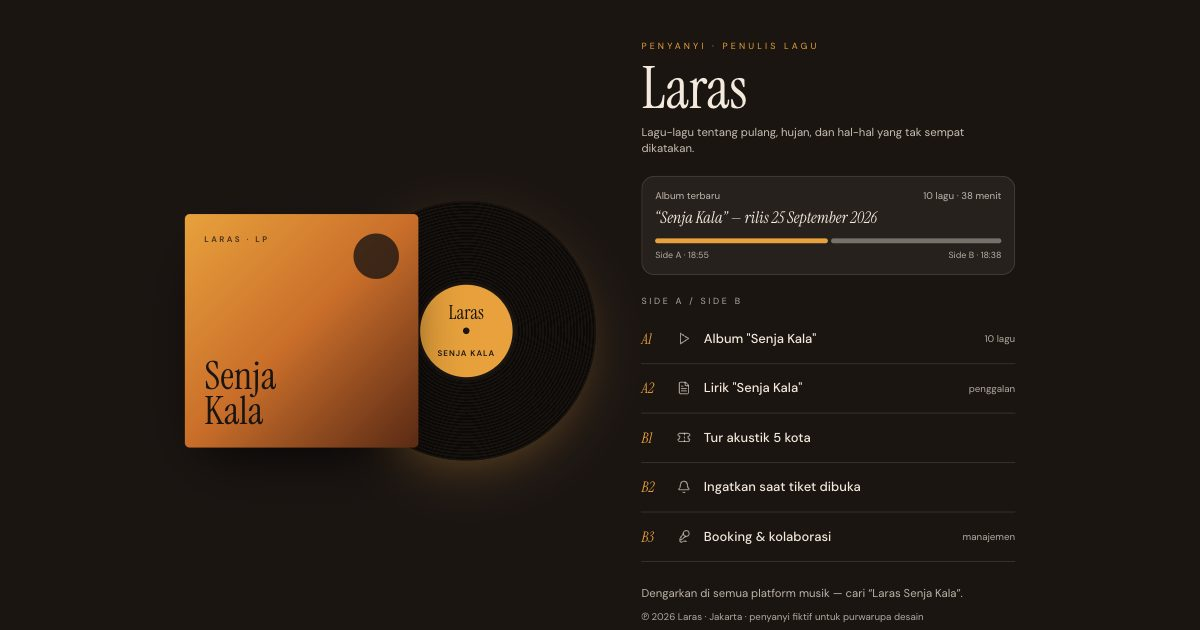
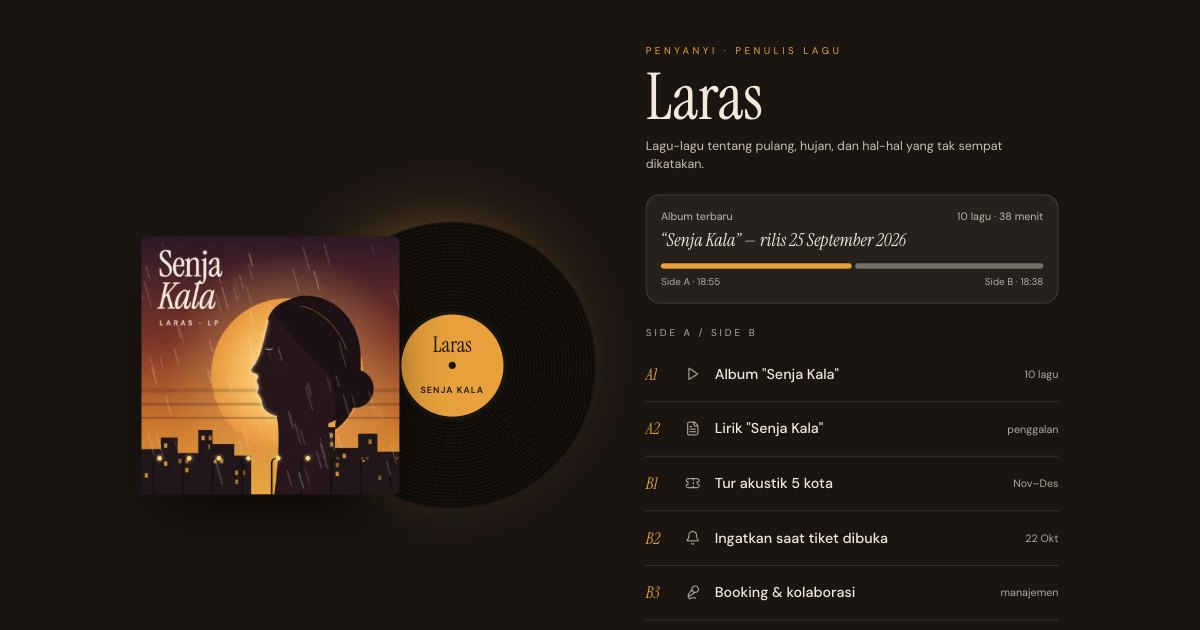
Tambah sampul album Senja Kala bergambar siluet Laras
- Sampul gradien diganti ilustrasi asli: siluet profil Laras di depan
  matahari senja, gerimis, dan lampu kota yang menyala satu-satu
- Beranda kini menampilkan sampul + piringan yang menyembul juga di ponsel;
  /album memakai sampul yang sama dengan alt deskriptif
- Gambar statis lewat scripts/static-images.mjs dengan <img srcset>; sumber
  di public/images/SUMBER.md; og.jpg diperbarui

diff --git a/app/page.js b/app/page.js
@@ -1,4 +1,5 @@
 import Link from 'next/link';
+import Gambar from './components/Gambar';
 import { Bell, FileText, Mic2, Play, Ticket } from 'lucide-react';
 import { ALBUM, LINKS, durasiSisi } from '@/lib/laras';
 import { hariIniWIB } from '@/lib/waktu';
@@ -13,14 +14,10 @@ export default function Home() {
   return (
     <main className="flex min-h-screen items-center justify-center px-4 py-12 lg:px-8">
       <div className="w-full max-w-md lg:grid lg:max-w-5xl lg:grid-cols-[minmax(0,1.1fr)_minmax(0,1fr)] lg:items-center lg:gap-14">
-        {/* Piringan — di layar lebar keluar dari sampul album. Persona fiktif, tanpa foto. */}
-        <div className="rise relative mx-auto h-52 w-52 lg:h-[22rem] lg:w-full lg:max-w-[32rem]" aria-hidden="true">
-          <div className="absolute inset-y-8 left-0 z-10 hidden aspect-square rounded-md bg-gradient-to-br from-amberv via-[#c96e2a] to-[#5a2a14] p-6 shadow-[0_30px_70px_-25px_rgba(0,0,0,0.9)] lg:block">
-            <span className="absolute bottom-6 left-6 font-serif text-5xl leading-[0.9] text-studio">Senja<br />Kala</span>
-            <span className="absolute right-6 top-6 h-14 w-14 rounded-full bg-studio/80" />
-            <span className="absolute left-6 top-6 text-[10px] font-semibold uppercase tracking-[0.3em] text-studio/80">Laras · LP</span>
-          </div>
-          <div className="absolute inset-0 lg:inset-y-4 lg:left-auto lg:right-0 lg:aspect-square">
+        {/* Sampul album + piringan yang menyembul dari sampulnya. Ilustrasi asli, persona fiktif. */}
+        <div className="rise relative mx-auto h-52 w-full max-w-[20rem] lg:h-[22rem] lg:max-w-[32rem]" aria-hidden="true">
+          <Gambar src="/images/sampul-senja-kala.webp" alt="" width={352} height={352} asli={800} sizes="(min-width: 1024px) 288px, 176px" priority className="absolute inset-y-4 left-0 z-10 aspect-square h-[calc(100%-2rem)] w-auto rounded-md shadow-[0_30px_70px_-25px_rgba(0,0,0,0.9)] lg:inset-y-8 lg:h-[calc(100%-4rem)]" />
+          <div className="absolute inset-y-0 right-0 aspect-square lg:inset-y-4">
             <div className="record absolute inset-0 rounded-full shadow-[0_20px_60px_-15px_rgba(232,161,60,0.35)]" />
             <div className="absolute left-1/2 top-1/2 grid h-[38%] w-[38%] -translate-x-1/2 -translate-y-1/2 place-items-center rounded-full border-4 border-studio bg-amberv text-center text-studio">
               <span className="font-serif text-lg leading-none lg:text-2xl">Laras</span>

diff --git a/app/components/Gambar.jsx b/app/components/Gambar.jsx
@@ -1,0 +1,33 @@
+import manifest from '@/image-manifest.json';
+
+// Gambar statis tanpa JavaScript klien: <img> biasa dengan srcset varian WebP buatan
+// scripts/static-images.mjs (peta hash di image-manifest.json, sama seperti image-loader.js).
+// width/height = ukuran tampil (px CSS); tanpa `sizes` dipakai deskriptor 1x/2x,
+// dengan `sizes` dipakai deskriptor lebar sampai `asli` (lebar berkas sumber).
+const LEBAR = [64, 128, 256, 384, 640, 828, 1080, 1280, 1920];
+const varian = (src, w) => {
+  const hash = manifest[src];
+  return hash ? `/_img${src.replace(/\.(png|jpe?g|webp)$/i, '')}.${hash}-${w}.webp` : src;
+};
+const naik = (w) => LEBAR.find((x) => x >= w) ?? LEBAR[LEBAR.length - 1];
+
+export default function Gambar({ src, alt, width, height, sizes, asli = 1920, priority = false, ...rest }) {
+  const srcSet = sizes
+    ? LEBAR.filter((w) => w <= naik(asli)).map((w) => `${varian(src, w)} ${w}w`).join(', ')
+    : `${varian(src, naik(width))} 1x, ${varian(src, naik(width * 2))} 2x`;
+  return (
+    // eslint-disable-next-line @next/next/no-img-element
+    <img
+      src={varian(src, naik(sizes ? Math.min(asli, 1080) : width * 2))}
+      srcSet={srcSet}
+      sizes={sizes}
+      alt={alt}
+      width={width}
+      height={height}
+      loading={priority ? 'eager' : 'lazy'}
+      fetchPriority={priority ? 'high' : undefined}
+      decoding="async"
+      {...rest}
+    />
+  );
+}

diff --git a/app/album/page.js b/app/album/page.js
@@ -1,6 +1,7 @@
 import Link from 'next/link';
 import { ALBUM, SITE, totalDurasi } from '@/lib/laras';
 import Kembali from '../components/Kembali';
+import Gambar from '../components/Gambar';
 
 export const metadata = {
   title: 'Album "Senja Kala"',
@@ -15,10 +16,7 @@ export default function Album() {
       <div className="mx-auto max-w-xl">
         <Kembali />
         <div className="mt-10 grid items-end gap-6 sm:grid-cols-[10rem_1fr]">
-          <div aria-hidden="true" className="relative aspect-square w-40 rounded-md bg-gradient-to-br from-amberv via-[#c96e2a] to-[#5a2a14] p-4 shadow-[0_20px_50px_-20px_rgba(232,161,60,0.5)]">
-            <span className="absolute bottom-4 left-4 font-serif text-3xl leading-none text-studio">Senja<br />Kala</span>
-            <span className="absolute right-4 top-4 h-10 w-10 rounded-full bg-studio/80" />
-          </div>
+          <Gambar src="/images/sampul-senja-kala.webp" alt="Sampul album Senja Kala: siluet profil Laras bermata terpejam di depan matahari senja, gerimis, dan lampu kota yang menyala satu-satu" width={160} height={160} asli={800} priority className="aspect-square w-40 rounded-md shadow-[0_20px_50px_-20px_rgba(232,161,60,0.5)]" />
           <div>
             <p className="text-[11px] uppercase tracking-[0.3em] text-amberv">Album · {ALBUM.label}</p>
             <h1 className="mt-1 font-serif text-5xl">{ALBUM.judul}</h1>

diff --git a/image-loader.js b/image-loader.js
@@ -1,0 +1,15 @@
+// Loader next/image untuk gambar statis: varian WebP di public/_img/ buatan skrip static-images (lihat
+// image-manifest.json). Tidak memakai Image Optimization Vercel, jadi tidak terikat kuota bulanan.
+// Lebar yang diminta selalu salah satu dari deviceSizes/imageSizes di next.config (= WIDTHS di bawah).
+// Gambar di luar manifest (SVG, GIF, URL luar, impor statis) dikembalikan apa adanya.
+import manifest from './image-manifest.json'
+
+const WIDTHS = [64,128,256,384,640,828,1080,1280,1920]
+
+export default function staticImageLoader({ src, width }) {
+  const hash = manifest[src]
+  if (!hash) return src
+  const w = WIDTHS.find((x) => x >= width) ?? WIDTHS[WIDTHS.length - 1]
+  const stem = src.slice("".length).replace(/\.(png|jpe?g|webp)$/i, '')
+  return `/_img${stem}.${hash}-${w}.webp`
+}

diff --git a/public/images/SUMBER.md b/public/images/SUMBER.md
@@ -1,0 +1,7 @@
+# Sumber gambar
+
+| Berkas | Isi | Sumber | Lisensi |
+| --- | --- | --- | --- |
+| sampul-senja-kala.webp | Sampul album "Senja Kala": siluet profil Laras di depan matahari senja (penyanyi & album fiktif) | Ilustrasi asli PintuWeb (kode SVG) | Milik PintuWeb |
+
+Tidak ada foto stok dan tidak ada wajah orang sungguhan.
